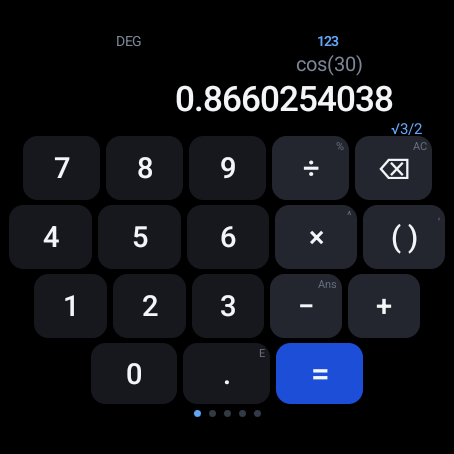
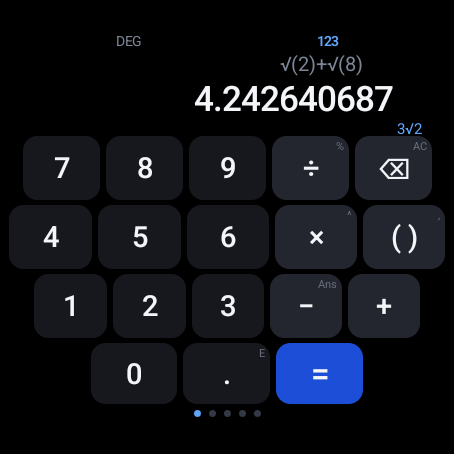
update screenshots

Changed region(s): [[0.37, 0.1233, 0.8634, 0.2467], [0.8634, 0.2467, 0.9251, 0.3084]]

diff --git a/README.md b/README.md
@@ -8,9 +8,9 @@
 
 [![Get it on Google Play](playbadge.svg)](https://play.google.com/store/apps/details?id=com.bunnypranav.watchcalc)
 
-<img src="fastlane/metadata/android/en-US/images/wearScreenshots/1.png" width="30%" alt="cos(30) showing 0.8660254038 and √3/2">
-<img src="fastlane/metadata/android/en-US/images/wearScreenshots/2.png" width="30%" alt="2520 factorised as 2³×3²×5×7">
-<img src="fastlane/metadata/android/en-US/images/wearScreenshots/6.png" width="30%" alt="Home screen widgets">
+<img src="fastlane/metadata/android/en-US/images/wearScreenshots/1.png" width="38%" alt="√2 + √8 showing 4.242640687 with the exact form 3√2 beneath it">
+<img src="fastlane/metadata/android/en-US/images/wearScreenshots/4.png" width="38%" alt="cos(30) showing 0.8660254038 with the exact form √3/2 beneath it">
+<img src="fastlane/metadata/android/en-US/images/wearScreenshots/2.png" width="38%" alt="2520 factorised as 2³×3²×5×7">
 
 </div>
 
